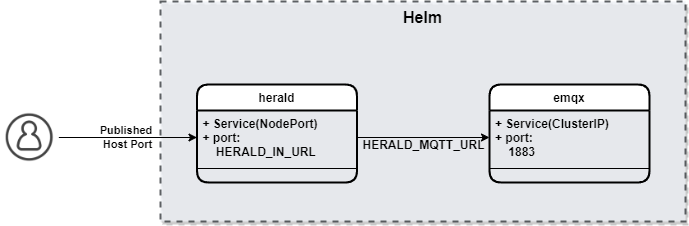
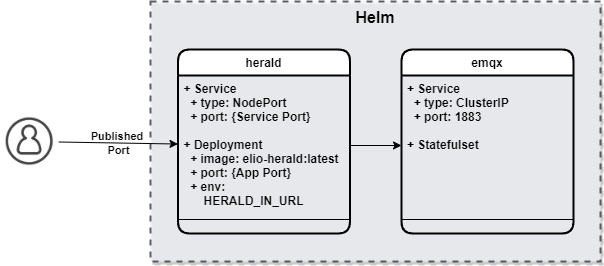
fix doc and image

Changed region(s): [[0.0, 0.0, 1.0, 1.0], [0.9834, 0.4027, 1.0, 0.6814]]

diff --git a/app/echo/README.md b/app/echo/README.md
@@ -14,7 +14,7 @@ cd $ELIO_ROOT
 
 <br/><br/><br/>
 
-## Running on Host  
+## Running a app on Host  
 ### Using `go run`  
 To run `echo` service, run the following command:  
 ```shell
@@ -26,7 +26,7 @@ environment variable `ECHO_IN_URL`.
 
 <br/><br/><br/>
 
-## Running on Kubernetes  
+## Running a app on Kubernetes  
 ### Create a Kind cluster  
 
 To create a kind, run the following command:  
@@ -68,7 +68,7 @@ telnet localhost 7001
 
 <br/><br/><br/>
 
-## Ending  
+## Ending a app  
 ### [Kubernetes resource cleanup](https://skaffold.dev/docs/pipeline-stages/cleanup/#kubernetes-resource-cleanup)  
 After running `skaffold run` or `skaffold deploy` and deploying your app to a cluster, running `skaffold delete` will remove all the resources you deployed. Cleanup is enabled by default, it can be turned off by `--cleanup=false`  
 

diff --git a/app/herald/hub.md b/app/herald/hub.md
@@ -3,7 +3,7 @@
 It is a sample app to test pub/sub of backing `emqx` message broker  
 using [`elio`](https://github.com/cppis/elio) library.  
 
-![docs/images/cppis.herald.png](https://github.com/cppis/elio/blob/dev/docs/images/cppis.herald.png?raw=true)  
+![docs/images/herald.helm.png](https://github.com/cppis/elio/blob/dev/docs/images/herald.helm.png?raw=true)  
 
 <br/><br/>
 
